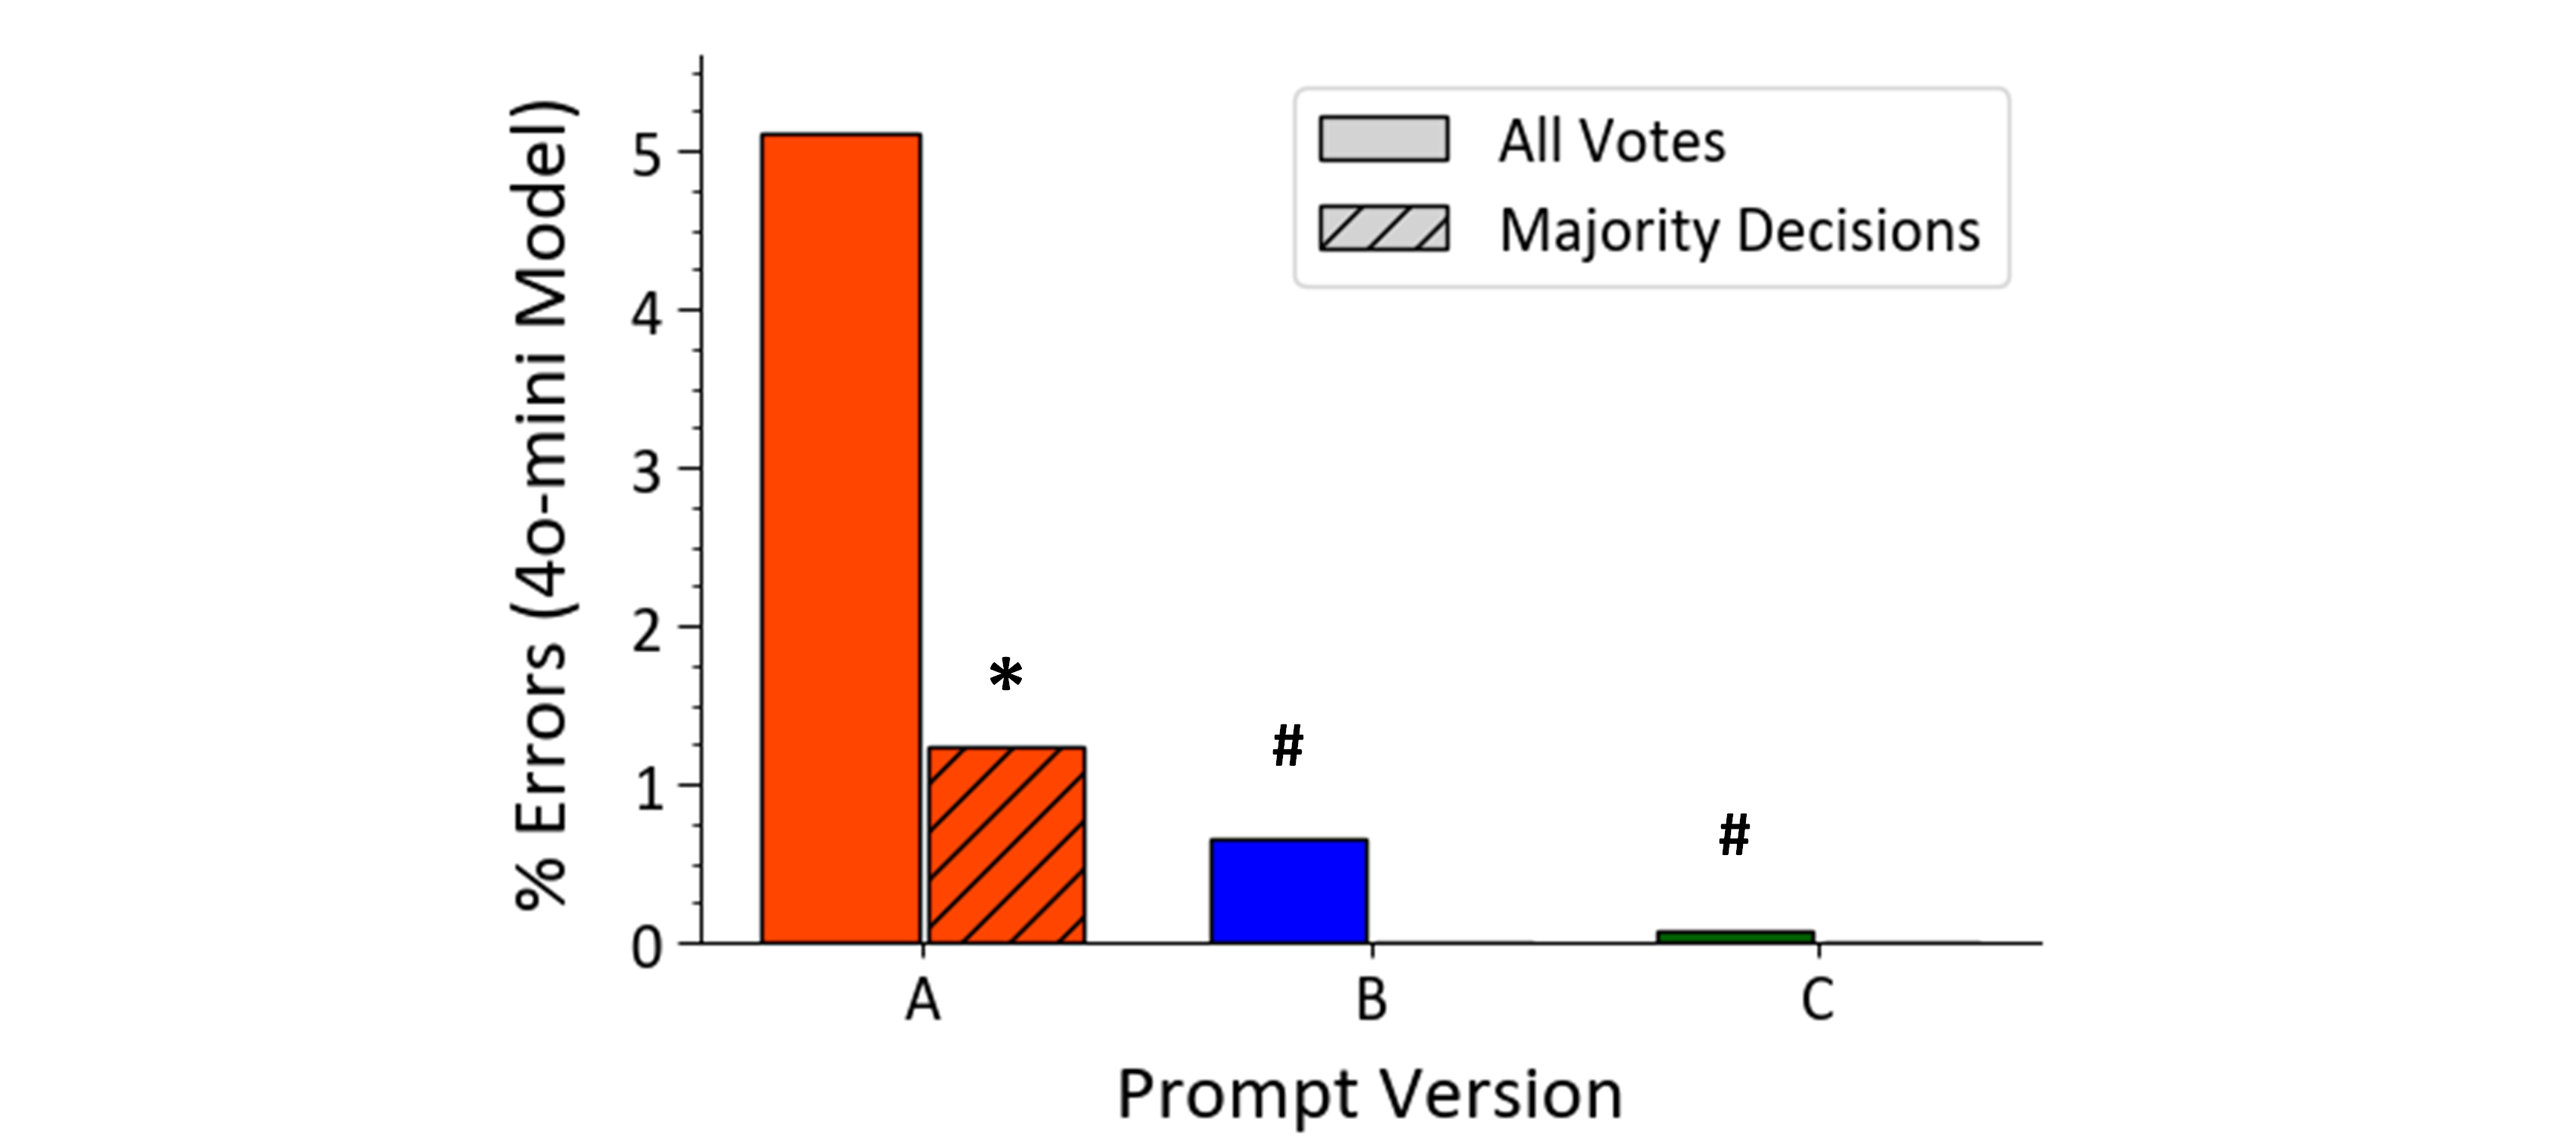
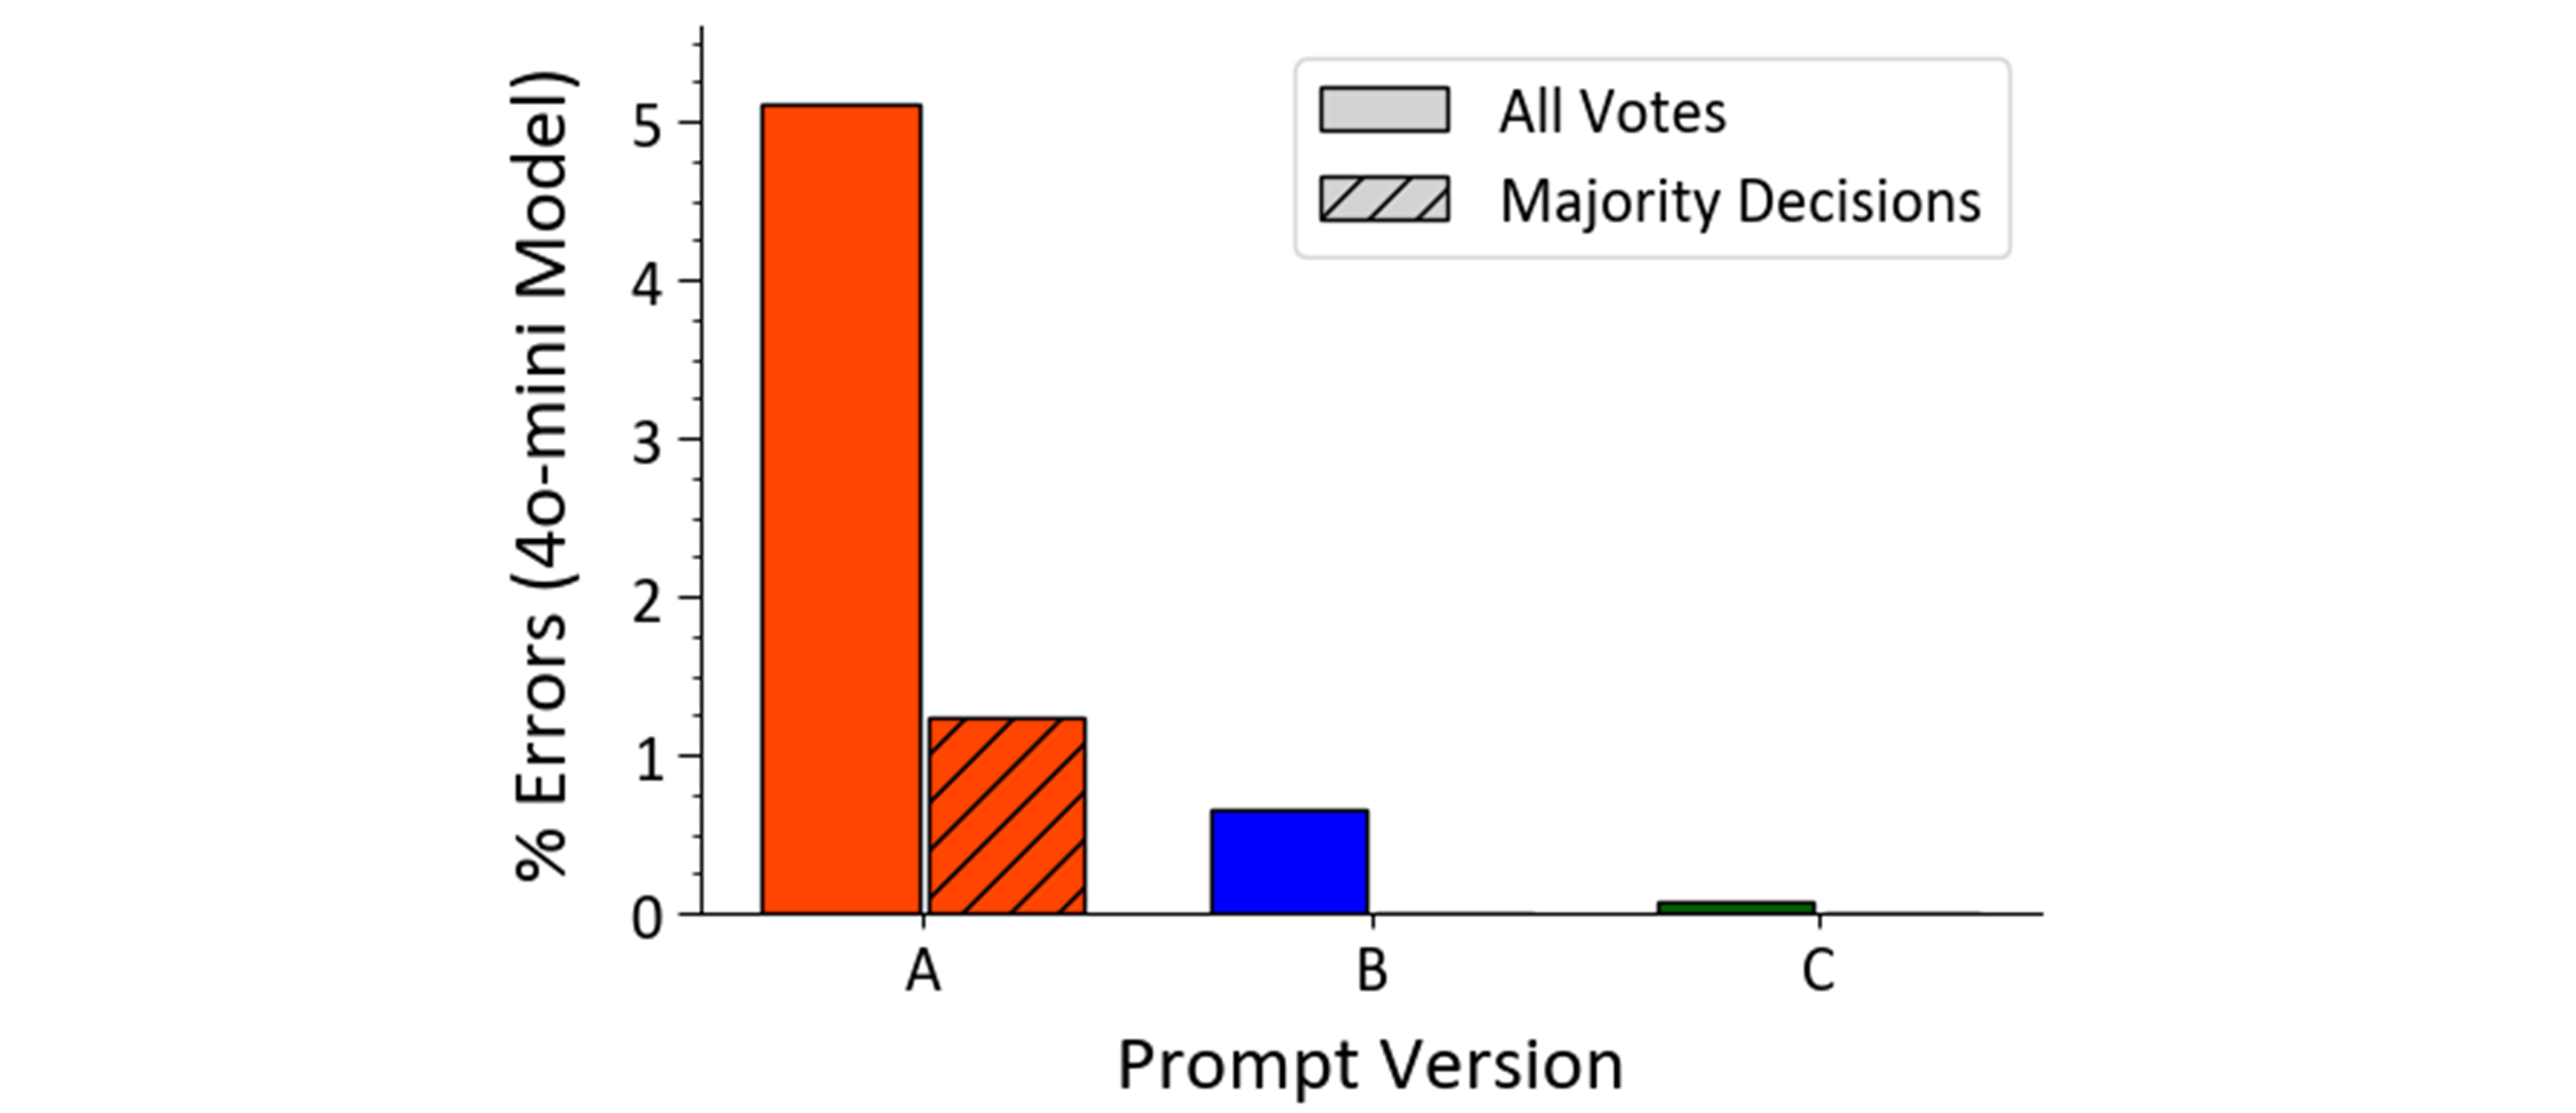
simplified stat claims related to fig 1.6

diff --git a/steps/step1_find_BS_table/README.md b/steps/step1_find_BS_table/README.md
@@ -85,7 +85,7 @@ The program provided here utilizes version C in combination with voting.
 
 ### <a id="figure-1-6"></a>![](https://github.com/ronihogri/financial-doc-reader/blob/main/steps/step1_find_BS_table/images/optimization_bar_graph_significance.png)
   
-**Figure 1.6: Effects of prompt engineering and voting on accuracy.** Error rates for each prompt version (A, B, C; see <a href="#figure-1-5" style="white-space: nowrap; font-weight: bold;">Fig. 1.5</a>), under two voting conditions: i. "All Votes", with each vote counted as a standalone decision (smooth bars); ii. "Majority Decisions", with decisions based on 3&ndash;5 votes (striped bars, not seen for versions B and C due to error rates being 0%). The program was run three times for each prompt version, resulting in 1215&ndash;1272 votes and 405 majority decisions per version. "*" refers to a significant effect of voting for version A; "#" refers to a significant effect of prompt version as compared to version A (Fisher's Exact test with Bonferroni correction, all *p* values < 0.005). <br><br>   
+**Figure 1.6: Effects of prompt engineering and voting on accuracy.** Error rates for each prompt version (A, B, C; see <a href="#figure-1-5" style="white-space: nowrap; font-weight: bold;">Fig. 1.5</a>), under two voting conditions: i. "All Votes", with each vote counted as a standalone decision (smooth bars); ii. "Majority Decisions", with decisions based on 3&ndash;5 votes (striped bars, not seen for versions B and C due to error rates being 0%). The program was run three times for each prompt version, resulting in 1215&ndash;1272 votes and 405 majority decisions per version. A logistic regression analysis revealed a significant effects of prompt version, voting, and their interaction. <br><br>   
 
 
 ## Conclusions
